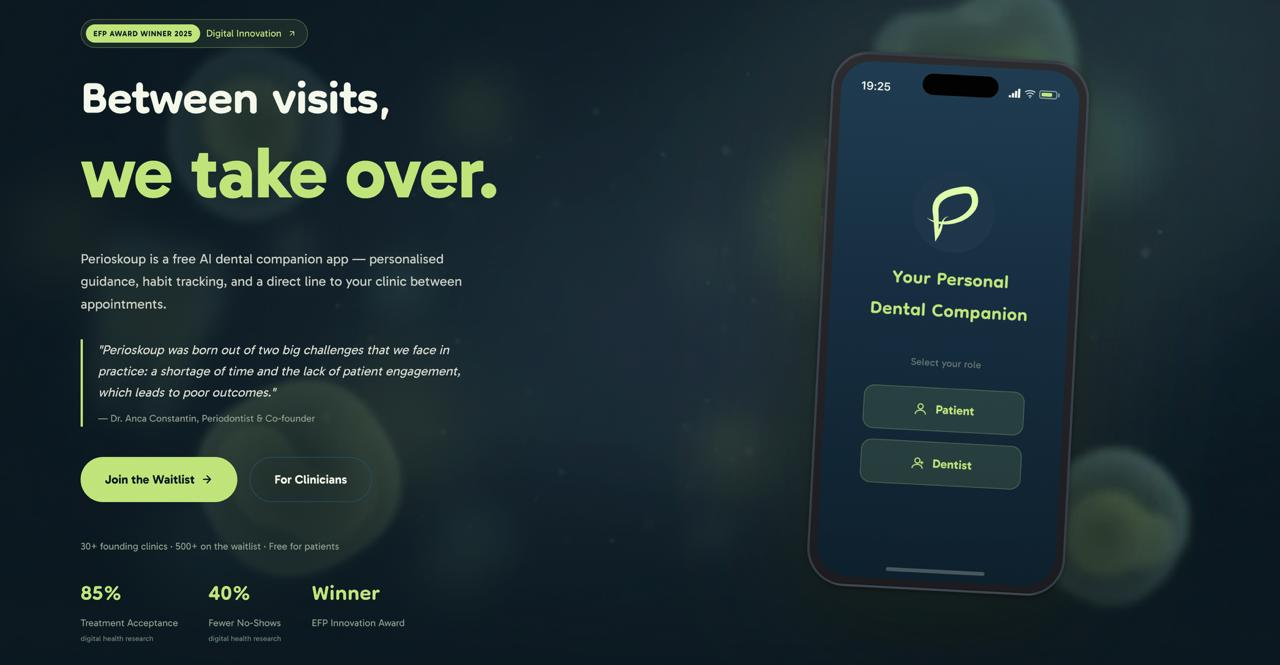
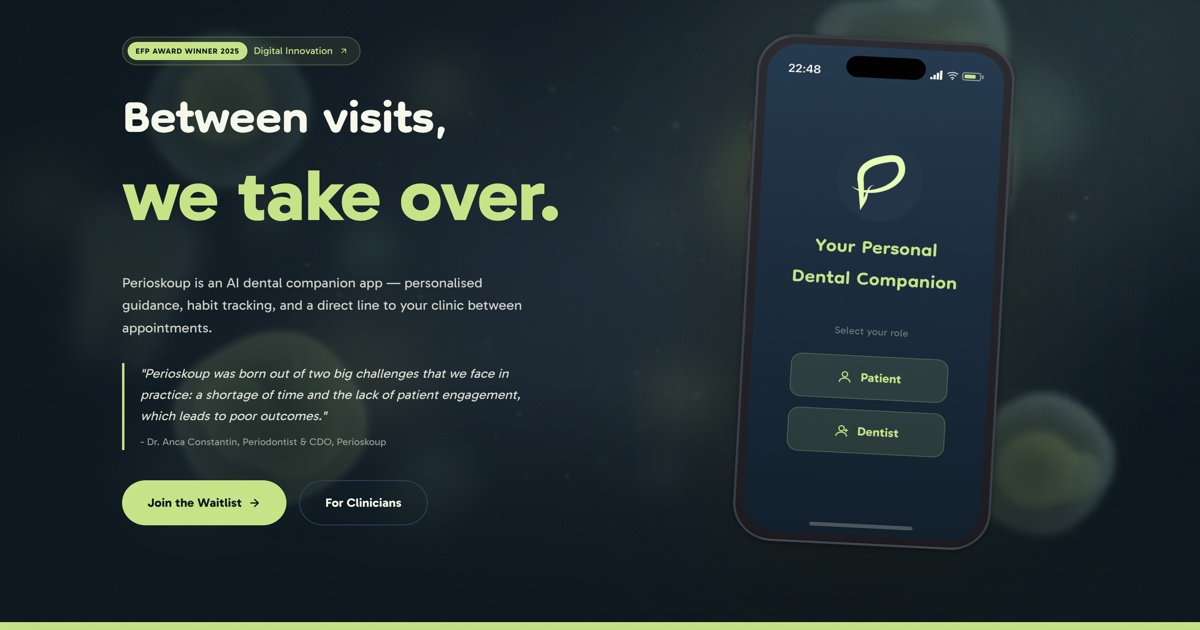
fix: mobile drawer scroll, hero cleanup, og:image update, CDO→CEO
- Fix mobile drawer not scrollable: overflow:hidden on <html> instead
  of position:fixed on body (which created containing block via
  overflow-x:clip, inflating drawer to 7700px)
- Drawer now uses height:100dvh + flex layout with scrollable content area
- Drawer gets own close button + logo header (z-index 55, above navbar)
- Drawer animation simplified to fade-in (no translateX to avoid
  viewport-widening)
- Remove hero social proof bar and stats row per request
- Remove "free" from hero subhead
- Update og:image with new hero screenshot (1200x630, 116KB)
- Dr. Anca role: CDO/Chief Dental Officer → CEO across all files

diff --git a/client/src/components/Navbar.tsx b/client/src/components/Navbar.tsx
@@ -35,9 +35,16 @@ export default function Navbar() {
 
   useEffect(() => { setMenuOpen(false); }, [location]);
 
+  // Lock background scroll while drawer is open.
+  // Set overflow:hidden on <html> (not body) to avoid creating a
+  // containing block that breaks the drawer's position:fixed sizing.
   useEffect(() => {
-    document.body.style.overflow = menuOpen ? 'hidden' : '';
-    return () => { document.body.style.overflow = ''; };
+    if (menuOpen) {
+      document.documentElement.style.overflow = 'hidden';
+      return () => {
+        document.documentElement.style.overflow = '';
+      };
+    }
   }, [menuOpen]);
 
   // A05: Focus trap + initial focus + Escape close for mobile drawer (WCAG 2.1.2 / 2.4.3)
@@ -156,7 +163,7 @@ export default function Navbar() {
 
 
 
-      {/* Mobile drawer -- CSS keyframe slide-in with staggered link reveals */}
+      {/* Mobile drawer -- full-screen overlay with staggered link reveals */}
       {/* A05: ref={drawerRef} enables the focus trap implemented in useEffect above */}
       {menuOpen && (
         <div
@@ -168,49 +175,97 @@ export default function Navbar() {
           className="mobile-drawer"
           style={{
             position: 'fixed',
-            inset: 0,
-            zIndex: 40,
-            background: 'rgba(10,23,30,0.97)',
+            top: 0,
+            left: 0,
+            right: 0,
+            height: '100dvh',
+            zIndex: 55,
+            display: 'flex',
+            flexDirection: 'column',
+            background: 'rgba(10,23,30,0.98)',
             backdropFilter: 'blur(24px)',
+            WebkitBackdropFilter: 'blur(24px)',
           }}
         >
-          <div className="container" style={{ paddingTop: '96px', display: 'flex', flexDirection: 'column', gap: '0' }}>
-            {NAV_LINKS.map(({ href, label }, i) => (
-              <Link
-                key={href}
-                href={href}
-                aria-current={location === href ? 'page' : undefined}
-              >
-                <div
-                  className="mobile-drawer-link"
-                  style={{
-                    fontFamily: 'Dongle, sans-serif',
-                    fontWeight: 700,
-                    fontSize: 'clamp(36px, 10vw, 48px)',
-                    color: location === href ? '#C0E57A' : '#F5F9EA',
-                    letterSpacing: '-0.04em',
-                    padding: '16px 0',
-                    borderBottom: '1px solid rgba(255,255,255,0.06)',
-                    textDecoration: 'none',
-                    animationDelay: `${0.05 + i * 0.06}s`,
-                  }}
-                >
-                  {label}
-                </div>
-              </Link>
-            ))}
-            <div
-              className="mobile-drawer-link"
+          {/* Drawer header with close button — fixed at top */}
+          <div
+            className="container"
+            style={{
+              display: 'flex',
+              alignItems: 'center',
+              justifyContent: 'space-between',
+              height: '64px',
+              flexShrink: 0,
+            }}
+          >
+            <LogoFull height={28} color="#C0E57A" />
+            <button
+              onClick={() => setMenuOpen(false)}
               style={{
-                marginTop: '32px',
-                animationDelay: `${0.05 + NAV_LINKS.length * 0.06}s`,
+                background: 'rgba(255,255,255,0.07)',
+                border: '1px solid rgba(255,255,255,0.1)',
+                borderRadius: '8px',
+                color: '#FFFFFF',
+                width: '44px',
+                height: '44px',
+                display: 'flex',
+                alignItems: 'center',
+                justifyContent: 'center',
               }}
+              aria-label="Close menu"
+              type="button"
             >
-              <Link href="/waitlist" aria-label="Join the waitlist">
-                <span className="btn-primary" style={{ width: '100%', justifyContent: 'center', display: 'flex', padding: '16px 24px' }}>
-                  Join the Waitlist
-                </span>
-              </Link>
+              <X size={17} />
+            </button>
+          </div>
+
+          {/* Nav links — scrollable area */}
+          <div
+            style={{
+              flex: 1,
+              overflowY: 'auto',
+              overflowX: 'hidden',
+              WebkitOverflowScrolling: 'touch',
+            }}
+          >
+            <div className="container" style={{ paddingTop: '24px', paddingBottom: '48px', display: 'flex', flexDirection: 'column', gap: '0' }}>
+              {NAV_LINKS.map(({ href, label }, i) => (
+                <Link
+                  key={href}
+                  href={href}
+                  aria-current={location === href ? 'page' : undefined}
+                >
+                  <div
+                    className="mobile-drawer-link"
+                    style={{
+                      fontFamily: 'Dongle, sans-serif',
+                      fontWeight: 700,
+                      fontSize: 'clamp(36px, 10vw, 48px)',
+                      color: location === href ? '#C0E57A' : '#F5F9EA',
+                      letterSpacing: '-0.04em',
+                      padding: '16px 0',
+                      borderBottom: '1px solid rgba(255,255,255,0.06)',
+                      textDecoration: 'none',
+                      animationDelay: `${0.05 + i * 0.06}s`,
+                    }}
+                  >
+                    {label}
+                  </div>
+                </Link>
+              ))}
+              <div
+                className="mobile-drawer-link"
+                style={{
+                  marginTop: '32px',
+                  animationDelay: `${0.05 + NAV_LINKS.length * 0.06}s`,
+                }}
+              >
+                <Link href="/waitlist" aria-label="Join the waitlist">
+                  <span className="btn-primary" style={{ width: '100%', justifyContent: 'center', display: 'flex', padding: '16px 24px' }}>
+                    Join the Waitlist
+                  </span>
+                </Link>
+              </div>
             </div>
           </div>
         </div>

diff --git a/client/src/pages/BlogPost.tsx b/client/src/pages/BlogPost.tsx
@@ -441,7 +441,7 @@ Every one of those conversations confirmed that we are building something genuin
 
 ## The Road to Vienna
 
-Perioskoup was founded in 2025 by three people: Dr. Anca Laura Constantin (Periodontist & CDO), Eduard Ciugulea (Co-founder & CGO), and Petrica Nancu (CTO & Head of AI). The idea emerged from Dr. Anca's clinical practice - specifically from the frustration of watching patients with manageable conditions deteriorate between appointments because they lacked the tools to maintain their care at home.
+Perioskoup was founded in 2025 by three people: Dr. Anca Laura Constantin (Periodontist & CEO), Eduard Ciugulea (Co-founder & CGO), and Petrica Nancu (CTO & Head of AI). The idea emerged from Dr. Anca's clinical practice - specifically from the frustration of watching patients with manageable conditions deteriorate between appointments because they lacked the tools to maintain their care at home.
 
 The first version of the app was built in three months. The EFP submission was prepared in parallel with ongoing development. Winning the award at our first major international submission was beyond what we had expected.
 
@@ -461,7 +461,7 @@ We are just getting started.
       "Vienna, May 2025": "At EuroPerio11 in Vienna, Perioskoup was awarded 3rd Prize at the EFP Digital Innovation Awards 2025, selected from 20 submissions across 17 national periodontal societies. It was the team's first major international submission.",
       "What the EFP Said": "The European Federation of Periodontology described Perioskoup as 'an innovative digital tool that uses artificial intelligence to support both patients and clinicians in managing oral health.' The jury included leading European periodontists.",
       "What This Means to Us": "The EFP award validates that the gap between clinical treatment and daily patient behaviour is a real and recognised problem, and that Perioskoup's approach to bridging it has credibility within the European periodontology community.",
-      "The Road to Vienna": "Perioskoup was founded in 2025 by Dr. Anca Laura Constantin (Periodontist & CDO), Eduard Ciugulea (Co-founder & CGO), and Petrica Nancu (CTO & Head of AI). The first version was built in three months, with the EFP submission prepared in parallel.",
+      "The Road to Vienna": "Perioskoup was founded in 2025 by Dr. Anca Laura Constantin (Periodontist & CEO), Eduard Ciugulea (Co-founder & CGO), and Petrica Nancu (CTO & Head of AI). The first version was built in three months, with the EFP submission prepared in parallel.",
       "What's Next": "Perioskoup is currently in private beta with founding clinics across Romania and the UK, with priority onboarding for periodontology practices. The consumer app will launch on iOS and Android with a founding member waitlist.",
     },
     faqs: [
@@ -653,7 +653,7 @@ The bridge between the chair and the home. That's what we're building.
     `,
     answerCapsules: {
       "The Appointment That Started Everything": "Perioskoup was born from a clinical observation: patients who received excellent periodontal treatment still experienced disease recurrence because they lacked support for daily home care between appointments. The gap between the dental chair and daily life was the core problem.",
-      "The Team": "Perioskoup was founded by three people with complementary expertise: Dr. Anca Laura Constantin (periodontist and CDO), Eduard Ciugulea (Co-founder & CGO), and Petrica Nancu (CTO & Head of AI). The combination of clinical, engineering, and AI expertise shaped the product.",
+      "The Team": "Perioskoup was founded by three people with complementary expertise: Dr. Anca Laura Constantin (periodontist and CEO), Eduard Ciugulea (Co-founder & CGO), and Petrica Nancu (CTO & Head of AI). The combination of clinical, engineering, and AI expertise shaped the product.",
       "The Problem We Were Actually Solving": "The real problem was not a lack of dental information but a lack of personalised, ongoing support. Patients needed daily guidance adapted to their specific condition, delivered at the right time, with feedback loops that reinforced good habits.",
       "What We Built": "Perioskoup consists of a patient-facing app (personalised daily programmes, reminders, tracking, education) and a clinician dashboard (programme setup, engagement monitoring, targeted guidance). The clinician stays in control; AI personalises delivery.",
       "The EFP Award": "Winning 3rd Prize at the EFP Digital Innovation Awards 2025 validated the approach and opened conversations with periodontists across Europe who confirmed the same clinical challenge.",
@@ -661,7 +661,7 @@ The bridge between the chair and the home. That's what we're building.
     },
     faqs: [
       { q: "What is Perioskoup?", a: "Perioskoup is a dental companion app that bridges the gap between dental appointments. It translates clinical recommendations into personalised daily programmes with reminders, tracking, and educational content for patients, while giving clinicians engagement data." },
-      { q: "Who founded Perioskoup?", a: "Perioskoup was founded by Dr. Anca Laura Constantin (Periodontist & CDO), Eduard Ciugulea (Co-founder & CGO), and Petrica Nancu (CTO & Head of AI). The idea emerged from Dr. Anca's clinical practice." },
+      { q: "Who founded Perioskoup?", a: "Perioskoup was founded by Dr. Anca Laura Constantin (Periodontist & CEO), Eduard Ciugulea (Co-founder & CGO), and Petrica Nancu (CTO & Head of AI). The idea emerged from Dr. Anca's clinical practice." },
       { q: "Is Perioskoup available yet?", a: "Perioskoup is currently in private beta with founding clinics in Romania and the UK. A patient waitlist is open, with founding members receiving priority access and founding pricing when the app launches on iOS and Android." },
     ],
   },

diff --git a/client/src/pages/About.tsx b/client/src/pages/About.tsx
@@ -31,7 +31,7 @@ export default function About() {
     "jobTitle": "Periodontist",
     "medicalSpecialty": "Periodontology",
     "memberOf": { "@type": "Organization", "name": "European Federation of Periodontology", "url": "https://www.efp.org" },
-    "description": "Dr. Anca Laura Constantin is a practising periodontist based in Bucharest, Romania, co-founder and Chief Dental Officer of Perioskoup. She won 3rd Prize at the EFP Digital Innovation Award 2025 at EuroPerio11 in Vienna, selected from 20 submissions across 17 national societies.",
+    "description": "Dr. Anca Laura Constantin is a practising periodontist based in Bucharest, Romania, co-founder and CEO of Perioskoup. She won 3rd Prize at the EFP Digital Innovation Award 2025 at EuroPerio11 in Vienna, selected from 20 submissions across 17 national societies.",
     "image": "https://perioskoup.com/images/anca-headshot.jpg",
     "worksFor": { "@type": "Organization", "@id": "https://perioskoup.com/#organization" },
     "award": "EFP Digital Innovation Award 2025, 3rd Prize, European Federation of Periodontology",
@@ -51,7 +51,7 @@ export default function About() {
         "name": "Who is Dr. Anca Laura Constantin?",
         "acceptedAnswer": {
           "@type": "Answer",
-          "text": "Dr. Anca Laura Constantin is a practising periodontist based in Bucharest, Romania, specialising in Periodontology. She is the co-founder and Chief Dental Officer of Perioskoup and won 3rd Prize at the EFP Digital Innovation Award 2025 at EuroPerio11 in Vienna, selected from 20 submissions across 17 national periodontal societies."
+          "text": "Dr. Anca Laura Constantin is a practising periodontist based in Bucharest, Romania, specialising in Periodontology. She is the co-founder and CEO of Perioskoup and won 3rd Prize at the EFP Digital Innovation Award 2025 at EuroPerio11 in Vienna, selected from 20 submissions across 17 national periodontal societies."
         }
       },
       {
@@ -59,7 +59,7 @@ export default function About() {
         "name": "Who founded Perioskoup?",
         "acceptedAnswer": {
           "@type": "Answer",
-          "text": "Perioskoup was founded in 2025 by Dr. Anca Laura Constantin (Periodontist, CDO), Eduard Ciugulea (Co-founder & CGO), and Petrica Nancu (CTO & Head of AI). The idea emerged from Dr. Anca's clinical practice — specifically, the challenge of maintaining patient engagement between dental appointments."
+          "text": "Perioskoup was founded in 2025 by Dr. Anca Laura Constantin (Periodontist, CEO), Eduard Ciugulea (Co-founder & CGO), and Petrica Nancu (CTO & Head of AI). The idea emerged from Dr. Anca's clinical practice — specifically, the challenge of maintaining patient engagement between dental appointments."
         }
       },
       {
@@ -223,7 +223,7 @@ export default function About() {
               </blockquote>
               <div style={{ marginTop: 12, paddingLeft: 20 }}>
                 <p style={{ fontFamily: "Gabarito, sans-serif", fontSize: 14, fontWeight: 600, color: "#F5F9EA" }}>Dr. Anca Laura Constantin</p>
-                <p style={{ fontFamily: "Gabarito, sans-serif", fontSize: 13, color: "#C0E57A" }}>Periodontist & Co-founder, CDO</p>
+                <p style={{ fontFamily: "Gabarito, sans-serif", fontSize: 13, color: "#C0E57A" }}>Periodontist & Co-founder, CEO</p>
               </div>
             </div>
           </div>
@@ -265,7 +265,7 @@ export default function About() {
           </div>
           <div className="grid grid-cols-1 sm:grid-cols-2 lg:grid-cols-3 gap-5 max-w-[900px] mx-auto">
             {[
-              { img: ANCA_IMG, name: "Dr. Anca Laura Constantin", role: "Periodontist & Co-founder, CDO", creds: "DMD, PhD in Periodontology", bio: "Dr. Anca founded Perioskoup after recognizing that the biggest barrier to treatment success wasn't clinical skill - it was the communication gap between chair and home.", linkedin: "https://www.linkedin.com/in/anca-constantin-99800633b/" },
+              { img: ANCA_IMG, name: "Dr. Anca Laura Constantin", role: "Periodontist & Co-founder, CEO", creds: "DMD, PhD in Periodontology", bio: "Dr. Anca founded Perioskoup after recognizing that the biggest barrier to treatment success wasn't clinical skill - it was the communication gap between chair and home.", linkedin: "https://www.linkedin.com/in/anca-constantin-99800633b/" },
               { img: EDI_IMG, name: "Eduard Ciugulea", role: "CGO & Co-Founder", creds: "Full-stack engineer & growth strategist", bio: "Eduard brings the technical architecture and growth strategy that transforms Anca's clinical vision into a scalable product built for both patients and clinics.", linkedin: "https://www.linkedin.com/in/eduard-ciugulea/" },
               { img: PETRICA_IMG, name: "Petrica Nancu", role: "CTO & Head of AI", creds: "AI & machine learning specialist", bio: "Petrica leads the AI engine powering Perioskoup's clinical intelligence - transforming raw periodontal data into actionable nudges that keep patients engaged.", linkedin: "https://www.linkedin.com/in/petrica-nancu-b16468241/" },
             ].map((f, i) => (

diff --git a/client/src/pages/Home.tsx b/client/src/pages/Home.tsx
@@ -99,7 +99,7 @@ export default function Home() {
 
               {/* Product subhead */}
               <p className="reveal body-lg" style={{ maxWidth: 520, marginBottom: 32, transitionDelay: "0.15s", color: "rgba(245,249,234,0.8)" }}>
-                Perioskoup is a free AI dental companion app - personalised guidance, habit tracking, and a direct line to your clinic between appointments.
+                Perioskoup is an AI dental companion app — personalised guidance, habit tracking, and a direct line to your clinic between appointments.
               </p>
 
               {/* Dr. Anca quote */}
@@ -108,7 +108,7 @@ export default function Home() {
                   "Perioskoup was born out of two big challenges that we face in practice: a shortage of time and the lack of patient engagement, which leads to poor outcomes."
                 </p>
                 <footer style={{ marginTop: 10, fontFamily: "Gabarito, sans-serif", fontSize: 13, color: "#8C9C8C" }}>
-                  - Dr. Anca Constantin, Periodontist &amp; CDO, Perioskoup
+                  - Dr. Anca Constantin, Periodontist &amp; CEO, Perioskoup
                 </footer>
               </blockquote>
 
@@ -123,25 +123,6 @@ export default function Home() {
                 </Link>
               </div>
 
-              {/* Social proof micro-bar */}
-              <p className="reveal" style={{ fontFamily: "Gabarito, sans-serif", fontSize: 13, color: "#8C9C8C", marginBottom: 32, transitionDelay: "0.35s" }}>
-                30+ founding clinics · EFP Award Winner 2025 · Free for patients
-              </p>
-
-              {/* Stats row */}
-              <div className="reveal flex flex-wrap gap-6 lg:gap-10" style={{ transitionDelay: "0.4s" }}>
-                {[
-                  { label: "of mHealth studies show improved oral health", value: "87%", source: "Toniazzo et al. 2019, JCP", href: "https://doi.org/10.1111/jcpe.13064" },
-                  { label: "of care instructions forgotten within 48h", value: "80%", source: "Kessels 2003, BMJ", href: "https://doi.org/10.1136/bmj.326.7395.920" },
-                  { label: "EFP Innovation Award", value: "Winner", source: "", href: "" },
-                ].map((s) => (
-                  <div key={s.label}>
-                    <div style={{ fontFamily: "Dongle, sans-serif", fontSize: 44, color: "#C0E57A", lineHeight: 1 }}>{s.value}</div>
-                    <div style={{ fontFamily: "Gabarito, sans-serif", fontSize: 13, color: "#8C9C8C", marginTop: 4 }}>{s.label}</div>
-                    {s.source && <a href={s.href} target="_blank" rel="noopener noreferrer" style={{ fontFamily: "Gabarito, sans-serif", fontSize: 10, color: "#8C9C8C", marginTop: 2, display: "block", textDecoration: "none" }}>{s.source}</a>}
-                  </div>
-                ))}
-              </div>
             </div>
 
             {/* Right: phone mockup
@@ -365,7 +346,7 @@ export default function Home() {
               <img src={ASSETS.anca} alt="Dr. Anca Laura Constantin" loading="lazy" decoding="async" width={44} height={44} style={{ width: 44, height: 44, borderRadius: "50%", objectFit: "cover", objectPosition: "top" }} />
               <div style={{ textAlign: "left" }}>
                 <p style={{ fontFamily: "Gabarito, sans-serif", fontSize: 14, fontWeight: 600, color: "#F5F9EA" }}>Dr. Anca Laura Constantin</p>
-                <p style={{ fontFamily: "Gabarito, sans-serif", fontSize: 12, color: "#8C9C8C" }}>Periodontist & Chief Dental Officer, Perioskoup</p>
+                <p style={{ fontFamily: "Gabarito, sans-serif", fontSize: 12, color: "#8C9C8C" }}>Periodontist & CEO, Perioskoup</p>
               </div>
             </div>
           </div>

diff --git a/client/index.html b/client/index.html
@@ -119,10 +119,10 @@
           "honorificPrefix": "Dr.",
           "givenName": "Anca Laura",
           "familyName": "Constantin",
-          "jobTitle": "Periodontist & Chief Dental Officer",
+          "jobTitle": "Periodontist & CEO",
           "medicalSpecialty": "Periodontology",
           "memberOf": { "@type": "Organization", "name": "European Federation of Periodontology", "url": "https://www.efp.org" },
-          "description": "Dr. Anca Laura Constantin is a practising periodontist based in Bucharest, Romania, and co-founder and Chief Dental Officer of Perioskoup. She won the EFP Digital Innovation Award 2025 for her work on AI-assisted periodontal patient engagement.",
+          "description": "Dr. Anca Laura Constantin is a practising periodontist based in Bucharest, Romania, and co-founder and CEO of Perioskoup. She won the EFP Digital Innovation Award 2025 for her work on AI-assisted periodontal patient engagement.",
           "image": "https://perioskoup.com/images/anca-headshot.jpg",
           "worksFor": { "@id": "https://perioskoup.com/#organization" },
           "award": "EFP Digital Innovation Award 2025 — 3rd Prize, European Federation of Periodontology",
@@ -259,7 +259,7 @@
             <h2 style="font-size:28px;margin:0 0 16px">The Team</h2>
             <p style="color:#8C9C8C;font-size:14px;line-height:1.65;margin-bottom:16px">Perioskoup was founded by a periodontist, a full-stack engineer, and an AI specialist.</p>
             <ul style="list-style:none;padding:0;color:#8C9C8C;font-size:14px;line-height:2">
-              <li><strong style="color:#F5F9EA">Dr. Anca Laura Constantin</strong> — Periodontist &amp; Co-founder, Chief Dental Officer</li>
+              <li><strong style="color:#F5F9EA">Dr. Anca Laura Constantin</strong> — Periodontist &amp; Co-founder, CEO</li>
               <li><strong style="color:#F5F9EA">Eduard Ciugulea</strong> — Co-founder &amp; CGO, Full-Stack Engineer</li>
               <li><strong style="color:#F5F9EA">Petrica Nancu</strong> — CTO &amp; Head of AI, Machine Learning Specialist</li>
             </ul>

diff --git a/client/src/index.css b/client/src/index.css
@@ -191,7 +191,7 @@
     line-height: 1.6;
     -webkit-font-smoothing: antialiased;
     -moz-osx-font-smoothing: grayscale;
-    /* overflow-x: hidden removed — horizontal overflow is now fixed at the source via responsive grids */
+    overflow-x: clip; /* clip (not hidden) prevents mobile drawer translateX(100%) from widening viewport while preserving scroll behaviour */
   }
   h1, h2, h3, h4, h5, h6 {
     font-family: 'Dongle', sans-serif;
@@ -327,10 +327,10 @@
   to   { opacity: 1; transform: translateY(0); }
 }
 
-/* Mobile drawer slide-in from right */
-@keyframes drawer-slide-in {
-  from { transform: translateX(100%); opacity: 0; }
-  to   { transform: translateX(0);    opacity: 1; }
+/* Mobile drawer — instant show, no translateX to avoid viewport-widening */
+@keyframes drawer-fade-in {
+  from { opacity: 0; }
+  to   { opacity: 1; }
 }
 
 /* Mobile nav link staggered reveal */
@@ -489,11 +489,10 @@
    MOBILE DRAWER
    ================================================================ */
 .mobile-drawer {
-  animation: drawer-slide-in 0.32s cubic-bezier(0.16, 1, 0.3, 1) both;
+  animation: drawer-fade-in 0.22s ease both;
 }
 .mobile-drawer-link {
-  opacity: 0;
-  animation: mobile-link-in 0.38s cubic-bezier(0.16, 1, 0.3, 1) forwards;
+  animation: mobile-link-in 0.38s cubic-bezier(0.16, 1, 0.3, 1) both;
 }
 
 /* ================================================================

diff --git a/client/src/pages/ForDentists.tsx b/client/src/pages/ForDentists.tsx
@@ -163,7 +163,7 @@ export default function ForDentists() {
               </blockquote>
               <div style={{ marginTop: 12, paddingLeft: 20 }}>
                 <p style={{ fontFamily: "Gabarito, sans-serif", fontSize: 14, fontWeight: 600, color: "#F5F9EA" }}>Dr. Anca Laura Constantin</p>
-                <p style={{ fontFamily: "Gabarito, sans-serif", fontSize: 13, color: "#C0E57A" }}>Periodontist & Co-founder, CDO</p>
+                <p style={{ fontFamily: "Gabarito, sans-serif", fontSize: 13, color: "#C0E57A" }}>Periodontist & Co-founder, CEO</p>
                 <p style={{ fontFamily: "Gabarito, sans-serif", fontSize: 12, color: "#8C9C8C", marginTop: 4 }}>EFP Digital Innovation Award Winner 2025</p>
               </div>
             </div>
